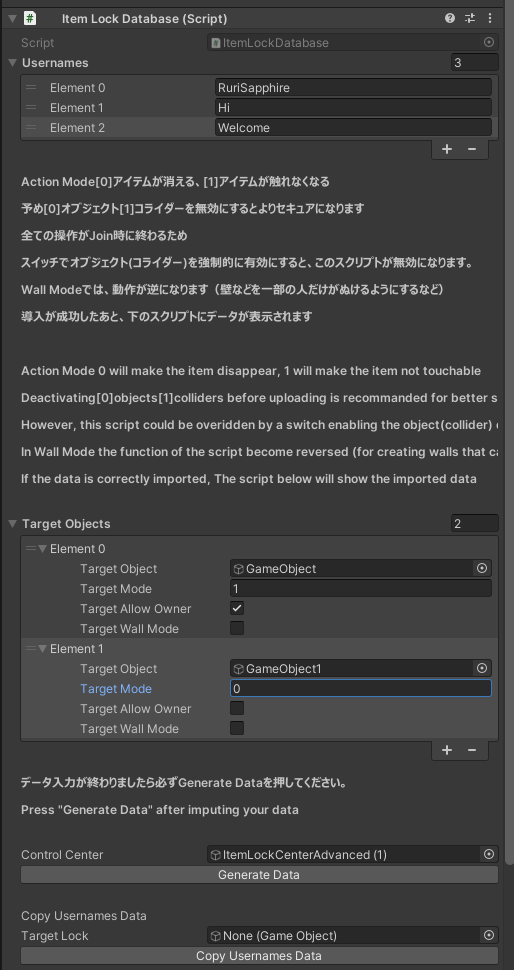
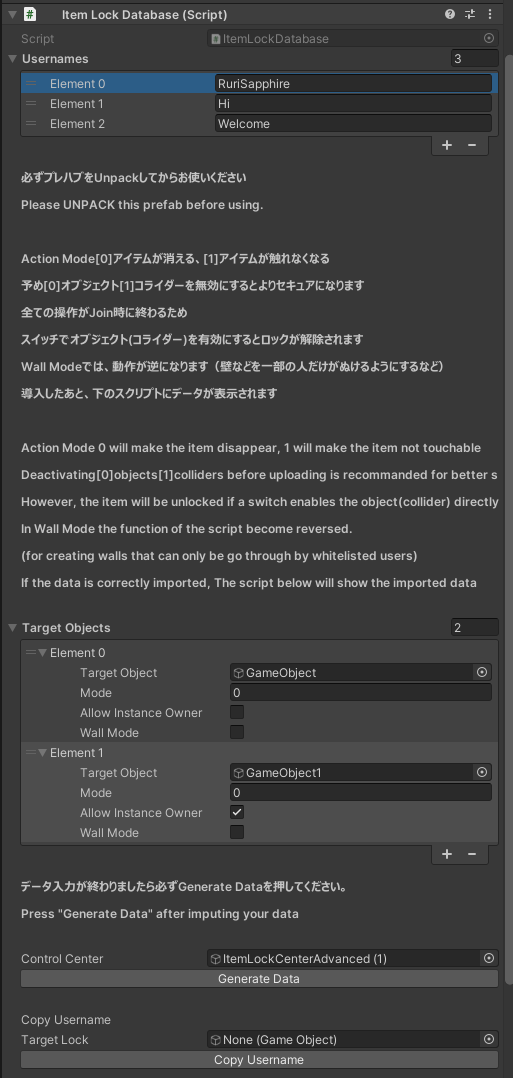
Changed some variable names to fix typos

diff --git a/ItemLockCenterAdvanced.cs b/ItemLockCenterAdvanced.cs
@@ -16,7 +16,7 @@ public class ItemLockCenterAdvanced : UdonSharpBehaviour
     [Header("Adding or moving objects could potentially break the program")]
     [Header("However, the item will be unlocked if a switch enables the object(collider) directly")]
     [Header(" ")]
-    [SerializeField] private String[] userName;
+    [SerializeField] private String[] usernames;
     [SerializeField] private GameObject[] targetObjects;
     [SerializeField] private int[] actionMode;
     [SerializeField] private bool[] allowInstanceOwner;
@@ -38,9 +38,9 @@ public class ItemLockCenterAdvanced : UdonSharpBehaviour
     private bool UserListCheck()
     {
         String localPlayer = Networking.LocalPlayer.displayName;
-            for (int i = 0; i < userName.Length; i++)
+            for (int i = 0; i < usernames.Length; i++)
             {
-                if (localPlayer == userName[i])
+                if (localPlayer == usernames[i])
                 {
                     return true;
                 }
@@ -83,7 +83,7 @@ public class ItemLockCenterAdvanced : UdonSharpBehaviour
 #if UNITY_EDITOR && !COMPILER_UDONSHARP
     public void ImportUsernames(String[] importedUsernames)
     {
-        userName = importedUsernames;
+        usernames = importedUsernames;
         Debug.Log("Username Imported");
     }
 
@@ -117,7 +117,7 @@ public class ItemLockCenterAdvanced : UdonSharpBehaviour
     // Export Functions (not in use)
     public String[] ExportUsernames()
     {
-        return userName;
+        return usernames;
     }
 
 #endif

diff --git a/ItemLockBasic.cs b/ItemLockBasic.cs
@@ -11,8 +11,8 @@ public class ItemLockBasic : UdonSharpBehaviour
     [Header("If no object is attached, current object will be automatically set up")]
     [Header(" ")]
     [SerializeField] private GameObject targetObject;
-    [SerializeField] private String[] userName;
-
+    [SerializeField] private String[] usernames;
+    
     [Header("Action Mode[0]アイテムが消える、[1]アイテムが触れなくなる")]
     [Header("[1]予めコライダーを無効にするとよりセキュアになります")]
     [Header("[0]このスクリプトがオブジェクトにアタッチしたまま無効にしないでください")]
@@ -66,9 +66,9 @@ public class ItemLockBasic : UdonSharpBehaviour
         }
         else
         {
-            for (int i = 0; i < userName.Length; i++)
+            for (int i = 0; i < usernames.Length; i++)
             {
-                if (localPlayer == userName[i])
+                if (localPlayer == usernames[i])
                 {
                     return true;
                 }
@@ -98,14 +98,14 @@ public class ItemLockBasic : UdonSharpBehaviour
 #if UNITY_EDITOR && !COMPILER_UDONSHARP
     public void ImportUsernames(String[] importedUsernames)
     {
-        userName = importedUsernames;
+        usernames = importedUsernames;
         Debug.Log("Username Imported");
     }
 
 
     public String[] ExportUsernames()
     {
-        return userName;
+        return usernames;
     }
 #endif
 }

diff --git a/ItemLockCenter.cs b/ItemLockCenter.cs
@@ -7,7 +7,7 @@ using VRC.Udon;
 
 public class ItemLockCenter : UdonSharpBehaviour
 {
-    [SerializeField]private String[] userName;
+    [SerializeField]private String[] usernames;
     [SerializeField]private GameObject[] targetObjects;
 
 
@@ -46,9 +46,9 @@ public class ItemLockCenter : UdonSharpBehaviour
         }
         else
         {
-            for (int i = 0; i < userName.Length; i++)
+            for (int i = 0; i < usernames.Length; i++)
             {
-                if (localPlayer == userName[i])
+                if (localPlayer == usernames[i])
                 {
                     return true;
                 }
@@ -79,11 +79,11 @@ public class ItemLockCenter : UdonSharpBehaviour
     }
     #if UNITY_EDITOR && !COMPILER_UDONSHARP
     public void ImportUsernames(String[] importedUsernames){
-        userName=importedUsernames;
+        usernames=importedUsernames;
         Debug.Log("Username Imported");
     }
     public String[] ExportUsernames(){
-        return userName;
+        return usernames;
     }
     #endif
 }

diff --git a/README.md b/README.md
@@ -80,7 +80,7 @@ From RC-b7, some variable names are changed. So in case of an update, please mak
 
 There are two types of prefabs. Advanced prefab allow editing modes and the options for allowing instance owner for each object, with a drawback of requiring clicking the Generate Data button every time the object is edited. The prefab without Advanced will let all target objects have the same settings. However, advanced prefab should be unpacked if you want to use it.
 
-右下の+マークを押しユーザー名を入力します。User Nameにあるすべてのユーザーがこのオブジェクトを操作できます。
+右下の+マークを押しユーザー名を入力します。Usernamesにあるすべてのユーザーがこのオブジェクトを操作できます。
 
 Using the + mark at bottom right corner and input usernames for whitelisted users.
 
@@ -102,7 +102,7 @@ In the Advanced prefab, you can put any other objects with ItemLockBasic or Item
 
 Drag and drop ItemLockBasic script to target object.
 
-右下の+マークを押してユーザー名を入力してください。User Nameにあるすべてのユーザーがこのオブジェクトを操作できます。
+右下の+マークを押してユーザー名を入力してください。Usernamesにあるすべてのユーザーがこのオブジェクトを操作できます。
 
 Using the + mark at bottom right corner and input usernames for whitelisted users.
 
